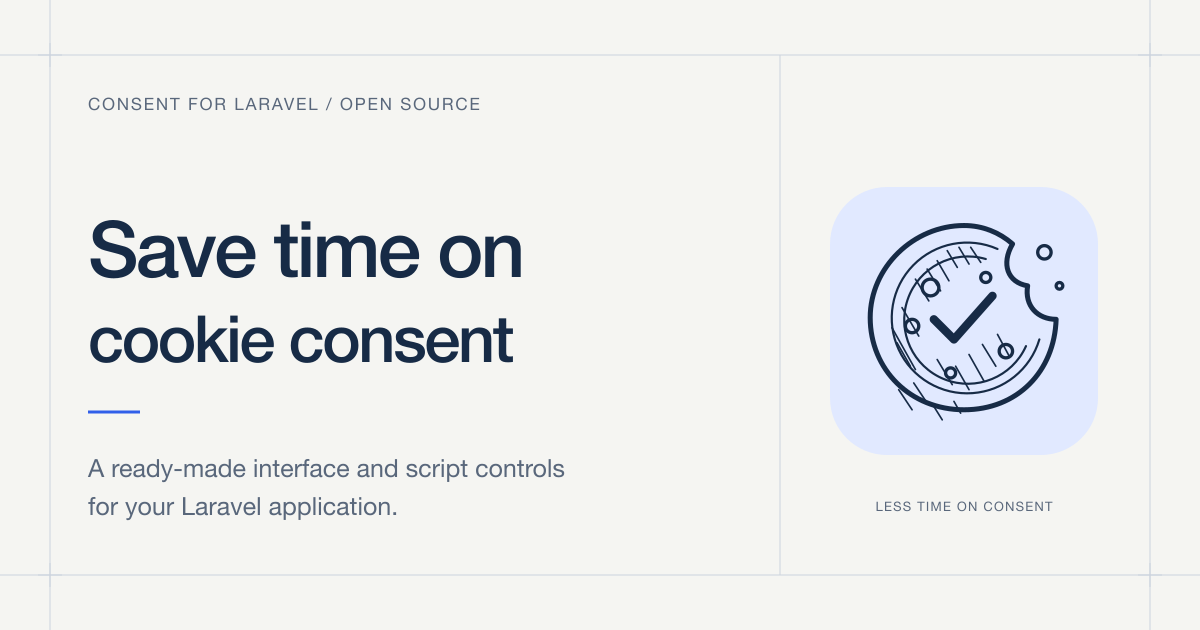
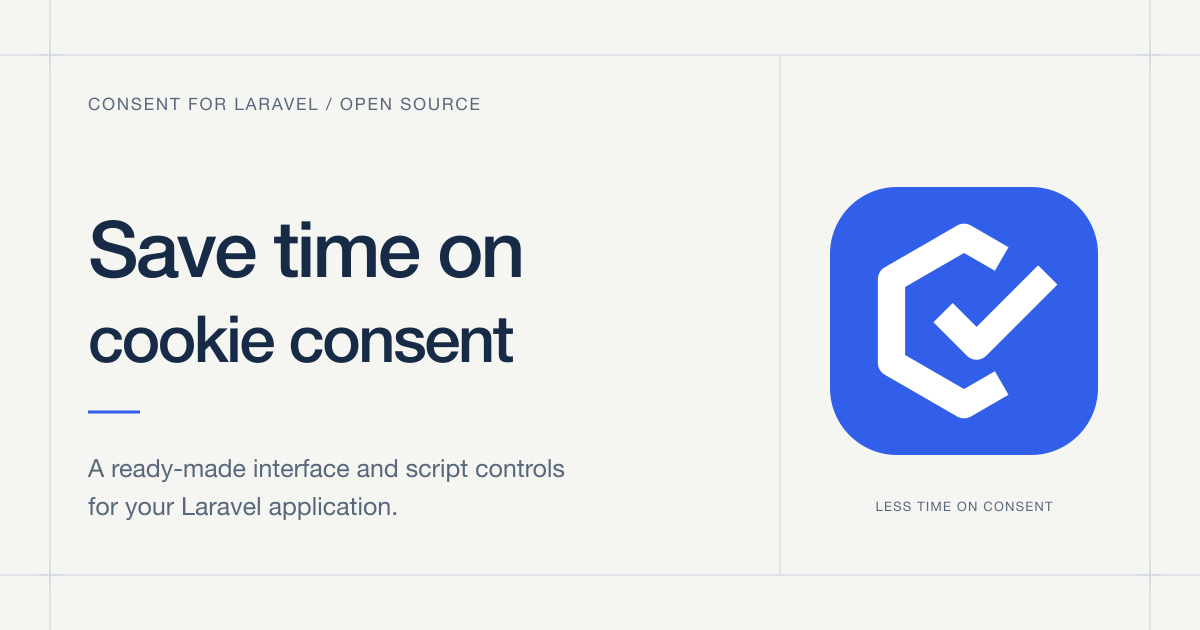
feat(brand): introduce geometric Consent identity

Changed region(s): [[0.6783, 0.2714, 0.925, 0.7238]]

diff --git a/resources/views/welcome.blade.php b/resources/views/welcome.blade.php
@@ -21,7 +21,7 @@
             </div>
             <p class="hero-note">Open source. MIT licensed. Built for PHP 8.3+ and Laravel 12-13.</p>
         </div>
-        <div class="hero-art"><img class="permission-study" src="{{ asset('assets/consent-architecture.svg') }}" width="760" height="660" alt="Isometric Laravel app with cookie preferences connected to Consent. Analytics is enabled and running; marketing is disabled and paused."><div class="art-caption"><span>Consent-aware tracking.</span></div></div>
+        <div class="hero-art"><img class="permission-study" src="{{ asset('assets/consent-architecture.svg') }}?v=2" width="760" height="660" alt="Isometric Laravel app with cookie preferences connected to Consent. Analytics is enabled and running; marketing is disabled and paused."><div class="art-caption"><span>Consent-aware tracking.</span></div></div>
     </section>
     <div class="spec-strip" aria-label="Package essentials"><span><b>PHP</b><span class="spec-separator" aria-hidden="true"></span> 8.3+</span><span><b>Laravel</b><span class="spec-separator" aria-hidden="true"></span> 12-13</span><span><b>Browser</b><span class="spec-separator" aria-hidden="true"></span> No frontend framework</span><a href="{{ config('site.repository') }}/blob/main/LICENSE.md"><b>License</b><span class="spec-separator" aria-hidden="true"></span> MIT <x-icon name="arrow-up" /></a></div>
     <section id="principles" class="numbered-section" aria-labelledby="principles-title">
@@ -104,6 +104,6 @@
             <details><summary>Do I need a hosted consent platform?<x-icon name="plus" /></summary><p>No. Consent is an open-source, MIT-licensed Composer package. The interface and configuration live in your Laravel app, with no separate consent dashboard to manage.</p></details>
         </div>
     </section>
-    <section class="closing-section" aria-labelledby="closing-title"><img src="{{ asset('assets/consent-mark.svg') }}" width="72" height="72" alt=""><span class="eyebrow">Open source for Laravel</span><h2 id="closing-title">Get back to<br><span class="text-accent">building your app</span></h2><div class="button-row"><a class="button button-primary" href="{{ route('docs.show', 'installation') }}">Install the package <x-icon name="arrow-right" /></a><a class="button button-outline" href="{{ config('site.repository') }}">View on GitHub <x-github-mark /></a></div><p>Let the package handle consent and tracking setup. Spend your next commit on the features your app needs.</p></section>
+    <section class="closing-section" aria-labelledby="closing-title"><img src="{{ asset('assets/consent-mark.svg') }}?v=2" width="72" height="72" alt=""><span class="eyebrow">Open source for Laravel</span><h2 id="closing-title">Get back to<br><span class="text-accent">building your app</span></h2><div class="button-row"><a class="button button-primary" href="{{ route('docs.show', 'installation') }}">Install the package <x-icon name="arrow-right" /></a><a class="button button-outline" href="{{ config('site.repository') }}">View on GitHub <x-github-mark /></a></div><p>Let the package handle consent and tracking setup. Spend your next commit on the features your app needs.</p></section>
 </main>
 @endsection

diff --git a/resources/views/layouts/site.blade.php b/resources/views/layouts/site.blade.php
@@ -12,8 +12,10 @@
     <meta property="og:title" content="@yield('title', 'Consent for Laravel - Every cookie starts with a choice')">
     <meta property="og:description" content="@yield('description', 'Thoughtful cookie consent for Laravel. Clear preferences, explicit choices, and scripts that respect them.')">
     <meta property="og:url" content="{{ url()->current() }}">
-    <meta property="og:image" content="{{ asset('assets/social-card.png') }}">
-    <link rel="icon" type="image/svg+xml" href="{{ asset('assets/favicon.svg') }}">
+    <meta property="og:image" content="{{ asset('assets/social-card.png') }}?v=2">
+    <link rel="icon" href="{{ asset('favicon.ico') }}?v=2" sizes="16x16 32x32 48x48">
+    <link rel="icon" type="image/svg+xml" href="{{ asset('assets/favicon.svg') }}?v=2" sizes="any">
+    <link rel="apple-touch-icon" href="{{ asset('assets/apple-touch-icon.png') }}" sizes="180x180">
     @vite(['resources/css/app.css', 'resources/js/app.js'])
 </head>
 <body>

diff --git a/resources/views/partials/footer.blade.php b/resources/views/partials/footer.blade.php
@@ -1,6 +1,6 @@
 <footer class="site-footer">
     <div class="footer-brand">
-        <a class="brand" href="{{ route('home') }}"><img src="{{ asset('assets/consent-mark.svg') }}" width="40" height="40" alt=""><span>Consent <span class="brand-subtitle">for Laravel</span></span></a>
+        <a class="brand" href="{{ route('home') }}"><img src="{{ asset('assets/consent-mark.svg') }}?v=2" width="40" height="40" alt=""><span>Consent <span class="brand-subtitle">for Laravel</span></span></a>
         <p>Cookie consent that fits<br>your Laravel workflow.</p>
         <span class="eyebrow">Open source / MIT</span>
     </div>

diff --git a/resources/views/partials/header.blade.php b/resources/views/partials/header.blade.php
@@ -1,6 +1,6 @@
 <header class="site-header">
     <a class="brand" href="{{ route('home') }}" aria-label="Consent for Laravel home">
-        <img src="{{ asset('assets/consent-mark.svg') }}" width="40" height="40" alt="">
+        <img src="{{ asset('assets/consent-mark.svg') }}?v=2" width="40" height="40" alt="">
         <span>Consent <span class="brand-subtitle">for Laravel</span></span>
     </a>
     <nav class="main-nav" aria-label="Main navigation">
